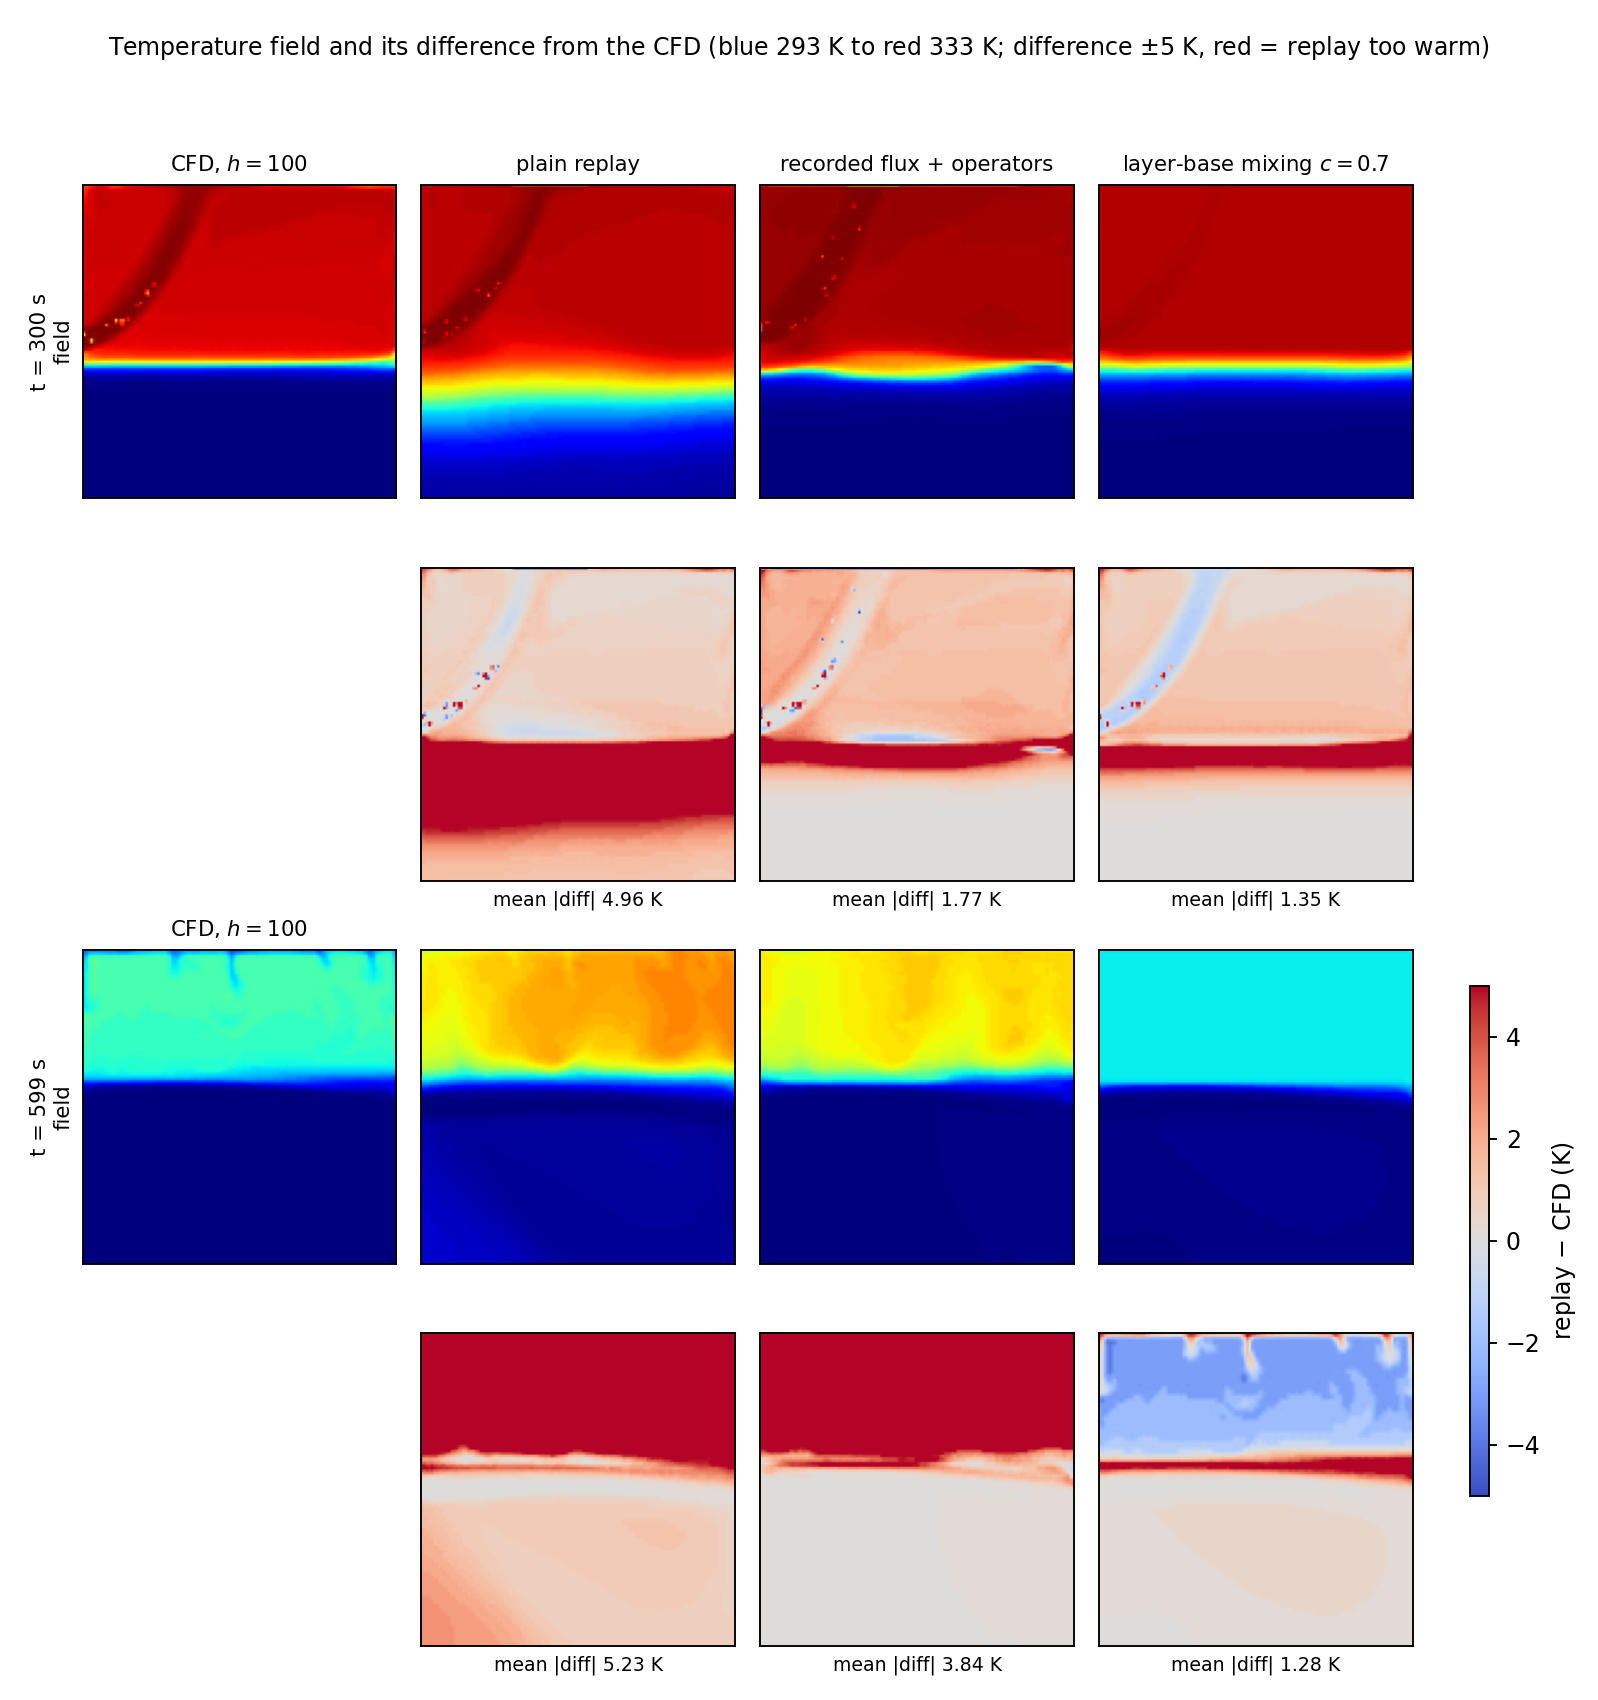
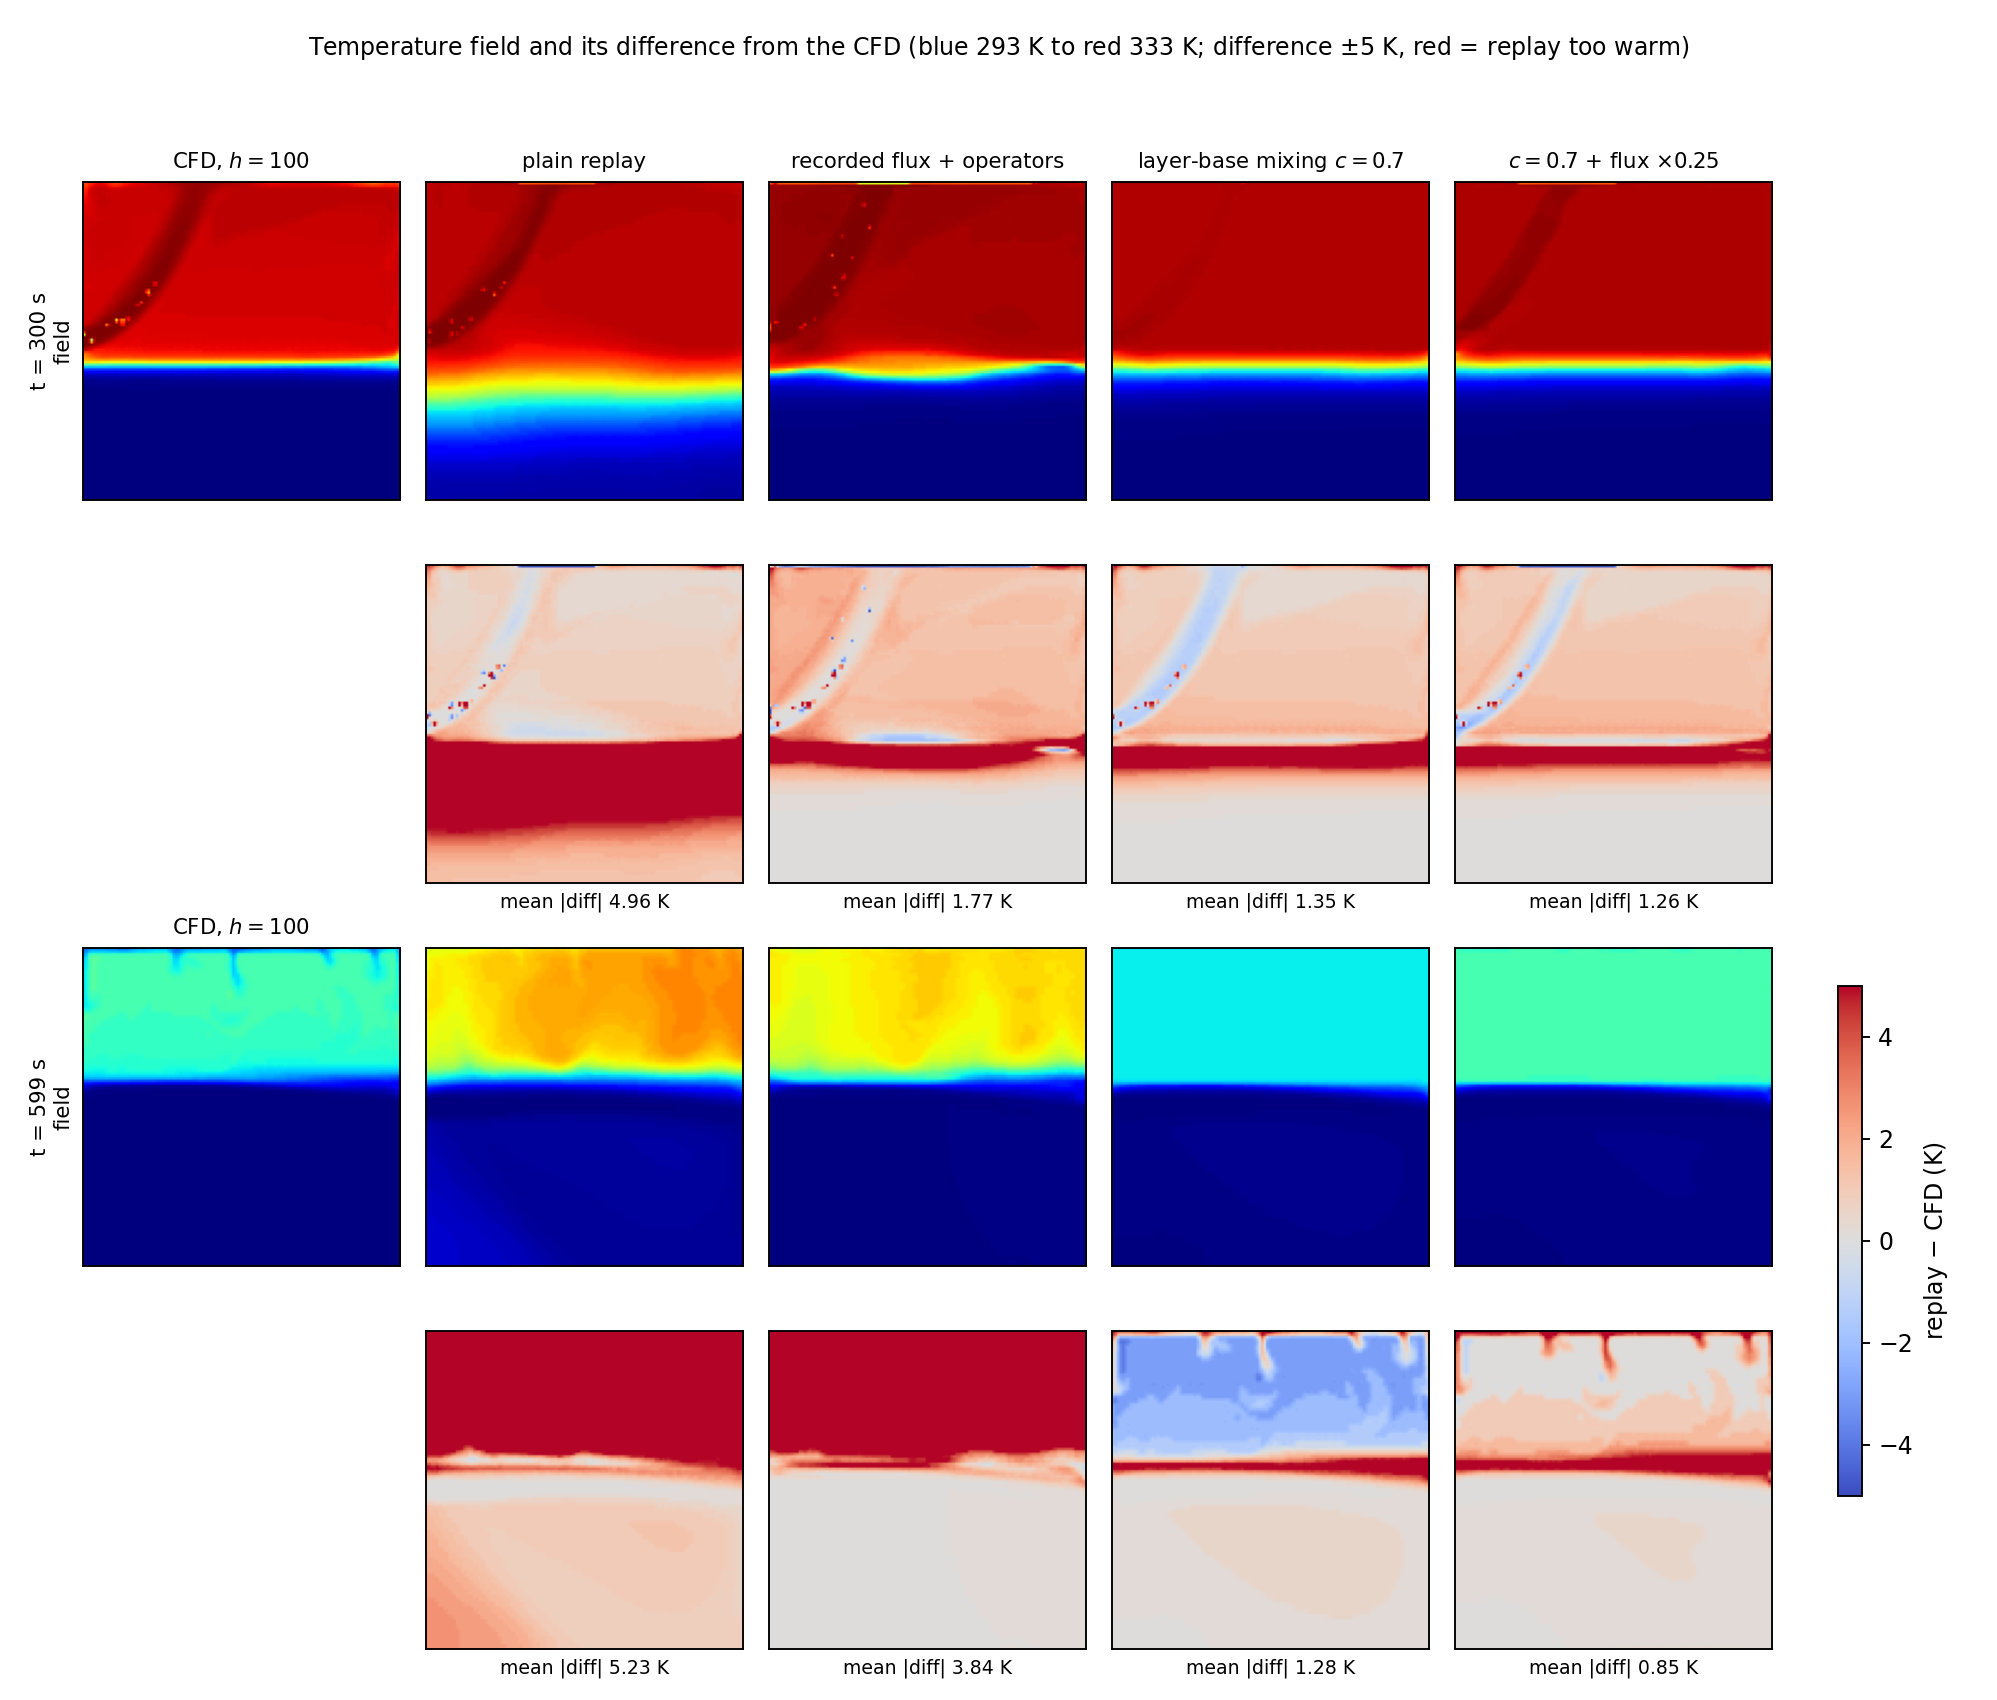
15.14: mixing share sweep and the quarter-strength flux

diff --git a/index.html b/index.html
@@ -3323,14 +3323,18 @@ rcfd_modify_balance_mass_source_one(handle, water, water_temp, -per_node_wall_he
 <tr><td>CFD, $h = 100$</td><td class="num">&mdash;</td><td class="num">0</td><td class="num">6.76</td><td class="num">4.48</td><td class="num">14.7</td></tr>
 <tr><td>plain replay</td><td class="num">35.2%</td><td class="num">3.51</td><td class="num">9.30</td><td class="num">8.81</td><td class="num">19.5</td></tr>
 <tr><td>recorded flux + operators</td><td class="num">53.1%</td><td class="num">1.98</td><td class="num">9.69</td><td class="num">7.78</td><td class="num">20.6</td></tr>
-<tr class="best"><td>layer-base mixing $c=0.7$</td><td class="num">71.9%</td><td class="num">1.23</td><td class="num">6.61</td><td class="num">2.90</td><td class="num">100.0</td></tr>
+<tr><td>layer-base mixing $c=0.7$</td><td class="num">71.9%</td><td class="num">1.23</td><td class="num">6.61</td><td class="num">2.90</td><td class="num">100.0</td></tr>
+<tr><td>layer-base mixing $c=0.85$</td><td class="num">77.2%</td><td class="num">1.47</td><td class="num">5.98</td><td class="num">&mdash;</td><td class="num">93.3</td></tr>
+<tr class="best"><td>$c=0.7$ + recorded flux &times;0.25</td><td class="num">67.6%</td><td class="num">1.23</td><td class="num">7.50</td><td class="num">&mdash;</td><td class="num">77.7</td></tr>
 <tr><td>$c=0.7$ + recorded flux</td><td class="num">64.9%</td><td class="num">1.39</td><td class="num">7.92</td><td class="num">2.51</td><td class="num">29.3</td></tr>
 <tr><td>prescribed roll 30 + sharpening</td><td class="num">80.7%</td><td class="num">1.71</td><td class="num">&mdash;</td><td class="num">&mdash;</td><td class="num">84.4</td></tr>
 </tbody>
 </table>
 </div>
 
-<p>The two look like halves of one answer, so we ran them together. Both halves of that guess hold and they still do not add up. With the recorded flux underneath it the mixing drops from 71.9&thinsp;% to 64.9&thinsp;% and its heterogeneity moves away from the reference, because the mixing has already flattened the anomalies the flux would act on and a nearly uniform layer leaves the flux almost no head-room to work in. What the flux does deliver is the other half: the renewal time falls from 100 s to 29.3 s, three times faster, and the front roughness moves towards the reference. The static field starts to live again, and it costs seven points of cooling.</p>
+<p>The two look like halves of one answer, so we ran them together. Both halves of that guess hold and they still do not add up. With the full recorded flux underneath it the mixing drops from 71.9&thinsp;% to 64.9&thinsp;% and its heterogeneity moves away from the reference, because the mixing has already flattened the anomalies the flux would act on and a nearly uniform layer leaves the flux almost no head-room to work in. What the flux does deliver is the other half: the renewal time falls from 100 s to 29.3 s, three times faster, and the front roughness moves towards the reference.</p>
+
+<p>The trade between those two ends is not linear, and its middle is the best field of the study. At a <em>quarter</em> of the recorded flux the capture is 67.6&thinsp;%, four points below the mixing alone instead of seven, while the renewal time is already down to 77.7 s and both texture measures &mdash; the layering anomaly 0.019 and the front roughness 0.0057 &mdash; are the closest to the reference of any run here. On the last frame its field sits <strong>0.85 K</strong> from the reference, against 1.28 K for the mixing alone, which ends a shade too cold. Turning the mixing up instead buys the cooling the other way: $c = 0.85$ reaches 77.2&thinsp;%, but its end heterogeneity drops to 5.98 K, below the reference's 6.76 K, so the layer becomes more uniform than the flow it copies while the picture stays as static as before.</p>
 
 <p>That is the honest state of it. One route reaches the numbers with a field that barely moves; the other keeps the field moving and reaches half the numbers; putting them in the same run trades one for the other rather than adding them. What separates the reference from all of them is still the same thing the difference maps show at the lid: a row of cold fingers that form, fall and disappear, which needs the cooled fluid to change the flow that carries it &mdash; and that feedback is exactly what a frozen recording does not contain.</p>
 
